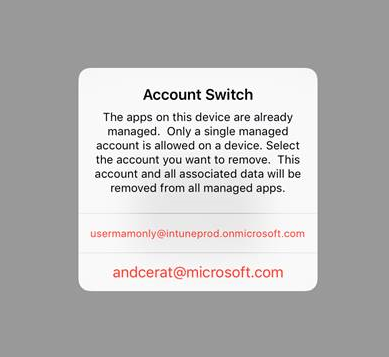
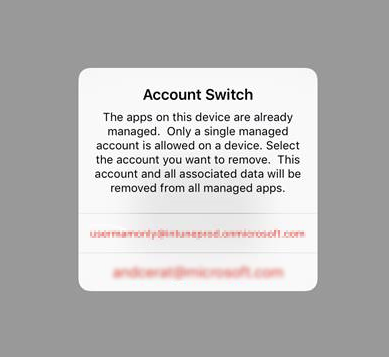
image fixes+ link fixes+TOCupdate

Changed region(s): [[0.2776, 0.7395, 0.7404, 0.8011], [0.2159, 0.6471, 0.8021, 0.6779]]

diff --git a/InTuneDocs/DeployUse/create-and-deploy-mobile-app-management-policies-with-microsoft-intune.md b/InTuneDocs/DeployUse/create-and-deploy-mobile-app-management-policies-with-microsoft-intune.md
@@ -117,8 +117,9 @@ Only users with [!INCLUDE[wit_nextref](../includes/wit_nextref_md.md)] licenses 
 >[!IMPORTANT]
 > If you are using Intune with Configuration Manager to manage your iOS and Android devices, the policy is only applied to the users directly in the group that you selected.  Members of child groups  nested within the group you selected will not be affected.
 
-The end users can download the apps from the App store or Google Play. For a detailed walkthrough of how MAM protects company data on the device see [end user experience with MAM enabled apps](end-user-experience-for-mam-enabled-apps-with-microsoft-intune.md) topic.
-
+The end users can download the apps from the App store or Google Play. For more information, see:
+* [What to expect when your Android app is managed by MAM policies](user-experience-for-mam-enabled-android-apps-with-microsoft-intune.md)
+* [What to expect when your iOS app is managed by MAM policies](user-experience-for-mam-enabled-ios-apps-with-microsoft-intune.md)
 ##  Change existing policies
 You can edit an existing policy and apply it to the targeted users. However, when you change existing policies,  users who are already signed  in to the apps won’t see the changes for an 8-hour period.
 
@@ -171,4 +172,5 @@ To see a full list of the policy setting for iOS and Android, select one of the 
 [Monitor compliance and user status](monitor-mobile-app-management-policies-with-microsoft-intune.md)
 
 ### See also
-[End user experience for MAM enabled apps](end-user-experience-for-mam-enabled-apps-with-microsoft-intune.md)
+* [What to expect when your Android app is managed by MAM policies](user-experience-for-mam-enabled-android-apps-with-microsoft-intune.md)
+* [What to expect when your iOS app is managed by MAM policies](user-experience-for-mam-enabled-ios-apps-with-microsoft-intune.md)

diff --git a/InTuneDocs/DeployUse/TOC.md b/InTuneDocs/DeployUse/TOC.md
@@ -125,7 +125,7 @@
 #### [Validate MAM policies](validate-mobile-application-management.md)
 #### [Monitor policy compliance](monitor-mobile-app-management-policies-with-microsoft-intune.md)
 #### [Manage data transfer between iOS apps](manage-data-transfer-between-ios-apps-with-microsoft-intune.md)
-#### [End user experience](end-user-experience-for-mam-enabled-apps-with-microsoft-intune.md)
+
 #### [Intune admin console for MAM policies](configure-and-deploy-mobile-application-management-policies-in-the-microsoft-intune-console.md)
 
 ### [Prepare line of business apps for MAM](decide-how-to-prepare-apps-for-mobile-application-management-with-microsoft-intune.md)
@@ -142,6 +142,8 @@
 
 ## [Resources about the end-user experience](what-to-tell-your-end-users-about-using-microsoft-intune.md)
 ### [Restore managed iOS devices](restore-managed-ios-devices-from-backup.md)
+### [Android apps with MAM policies](user-experience-for-mam-enabled-android-apps-with-microsoft-intune.md)
+### [iOS apps with MAM policies](user-experience-for-mam-enabled-ios-apps-with-microsoft-intune.md)
 
 # [Develop and Customize Apps](/intune/develop/intune-app-sdk)
 

diff --git a/InTuneDocs/DeployUse/user-experience-for-mam-enabled-android-apps-with-microsoft-intune.md b/InTuneDocs/DeployUse/user-experience-for-mam-enabled-android-apps-with-microsoft-intune.md
@@ -6,7 +6,7 @@ description: This topic describes what to expect when your app is managed by mob
 keywords:
 author: karthikaraman
 manager: angrobe
-ms.date: 10/18/2016
+ms.date: 10/19/2016
 ms.topic: article
 ms.prod:
 ms.service: microsoft-intune
@@ -80,7 +80,8 @@ The following filetypes are supported:
 |----|----|
 |Pfile is a generic “wrapper” format for protected files that encapsulates the encrypted content and the Azure Information Protection licenses and can be used to protect any file type.|Text files, including XML, CSV, etc. can be opened for viewing in the app even when they are protected. File types: txt, ptxt, csv, pcsv, log, plog, xml, pxml.|
 ---------------
-
+## Next steps
+[What to expect when your iOS app is managed by MAM policies](user-experience-for-mam-enabled-ios-apps-with-microsoft-intune.md)
 
 ### See also
 [Create and deploy mobile app management policies with Microsoft Intune](create-and-deploy-mobile-app-management-policies-with-microsoft-intune.md)

diff --git a/InTuneDocs/DeployUse/protect-app-data-using-mobile-app-management-policies-with-microsoft-intune.md b/InTuneDocs/DeployUse/protect-app-data-using-mobile-app-management-policies-with-microsoft-intune.md
@@ -129,8 +129,6 @@ Apps that support multi-identity gives you the ability to use different accounts
 
 For example, when the end user launches the OneDrive app using their work account, they cannot move the files to a personal storage location. However, when the end user uses OneDrive with their personal account, they can copy and move data from their personal OneDrive without restrictions.  
 
-For a detailed explanation of the experience of using apps that are associated with MAM policies, and how apps with Multi-identity support enable applying MAM policies only in work context, read [using apps with multi-identity support](end-user-experience-for-mam-enabled-apps-with-microsoft-intune.md#using-apps-with-multi-identity-support)
-
 All Office mobile apps support multi-identity.
 
 ##  Next steps

diff --git a/InTuneDocs/DeployUse/user-experience-for-mam-enabled-ios-apps-with-microsoft-intune.md b/InTuneDocs/DeployUse/user-experience-for-mam-enabled-ios-apps-with-microsoft-intune.md
@@ -63,6 +63,7 @@ User A works for two companies - **Company X**, and **Company Y**. User A has a 
 If you are using an iOS device, when you try to add a second work account on the same device, you may see a blocking message.  The accounts will be displayed and you can choose the account you want to remove.
 
 ![Screenshot of the dialog box with the blocking message and Yes and No options](../media/AppManagement/iOS_SwitchUser.PNG)
-
+## Next steps
+[What to expect when your Android app is managed by MAM policies](user-experience-for-mam-enabled-android-apps-with-microsoft-intune.md)
 ### See also
 [Create and deploy mobile app management policies with Microsoft Intune](create-and-deploy-mobile-app-management-policies-with-microsoft-intune.md)

diff --git a/InTuneDocs/DeployUse/monitor-mobile-app-management-policies-with-microsoft-intune.md b/InTuneDocs/DeployUse/monitor-mobile-app-management-policies-with-microsoft-intune.md
@@ -77,4 +77,5 @@ The detailed view displays the error message, the app that was accessed when the
 ### See also
 [Manage data transfer between iOS apps](manage-data-transfer-between-ios-apps-with-microsoft-intune.md)
 
-[End user experience for MAM enabled app](end-user-experience-for-mam-enabled-apps-with-microsoft-intune.md)
+* [What to expect when your Android app is managed by MAM policies](user-experience-for-mam-enabled-android-apps-with-microsoft-intune.md)
+* [What to expect when your iOS app is managed by MAM policies](user-experience-for-mam-enabled-ios-apps-with-microsoft-intune.md)
